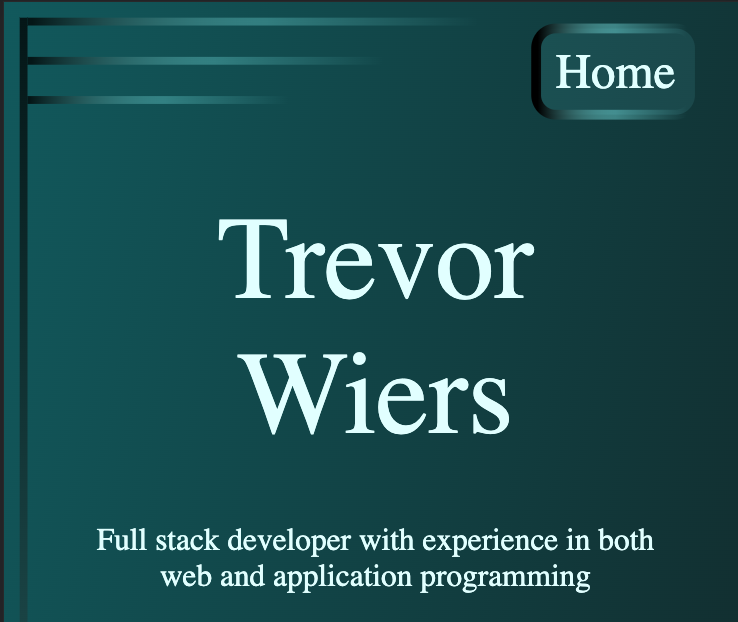
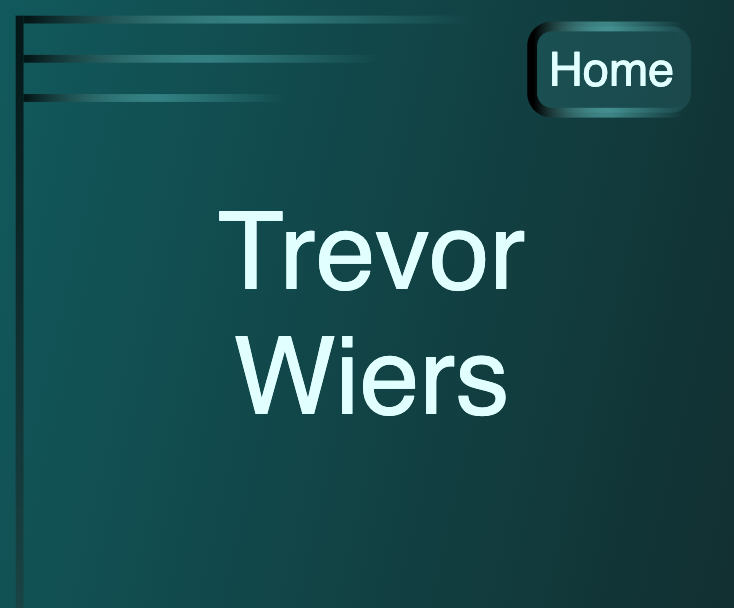
bio update

diff --git a/main/templates/main/home.html b/main/templates/main/home.html
@@ -13,8 +13,19 @@
             </div>
         </div>
         <div class="row">
-            <div class="col-12" style="text-align: center;">
-                Full stack developer with experience in both web and application programming
+            <div class="col-12">
+                <div style="text-align: center;">
+                    <p>
+                        (219) 798-0234<br>
+                        trevor.t.wiers@gmail.com
+                    </p>
+                    <br>
+                </div>
+                <div style="text-align: left;">
+                    <p>- Full stack developer with experience in both web and application programming</p>
+                    <p>- Knowledge of Digital Signal Processing</p>
+                    <p>- Cleaning and analysing data</p>
+                </div>
             </div>
         </div>
 
